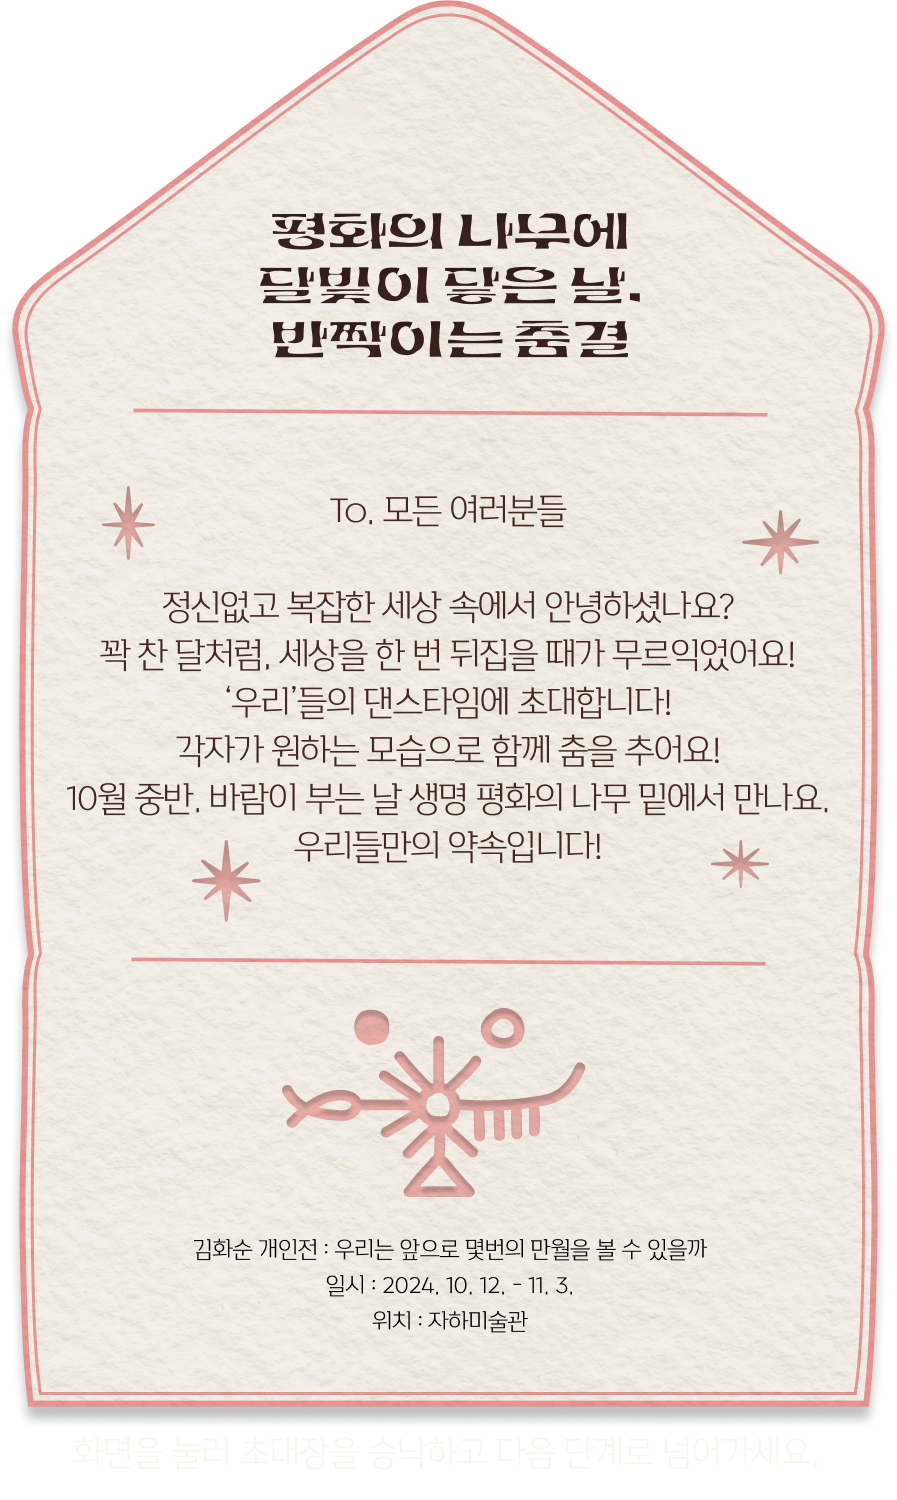
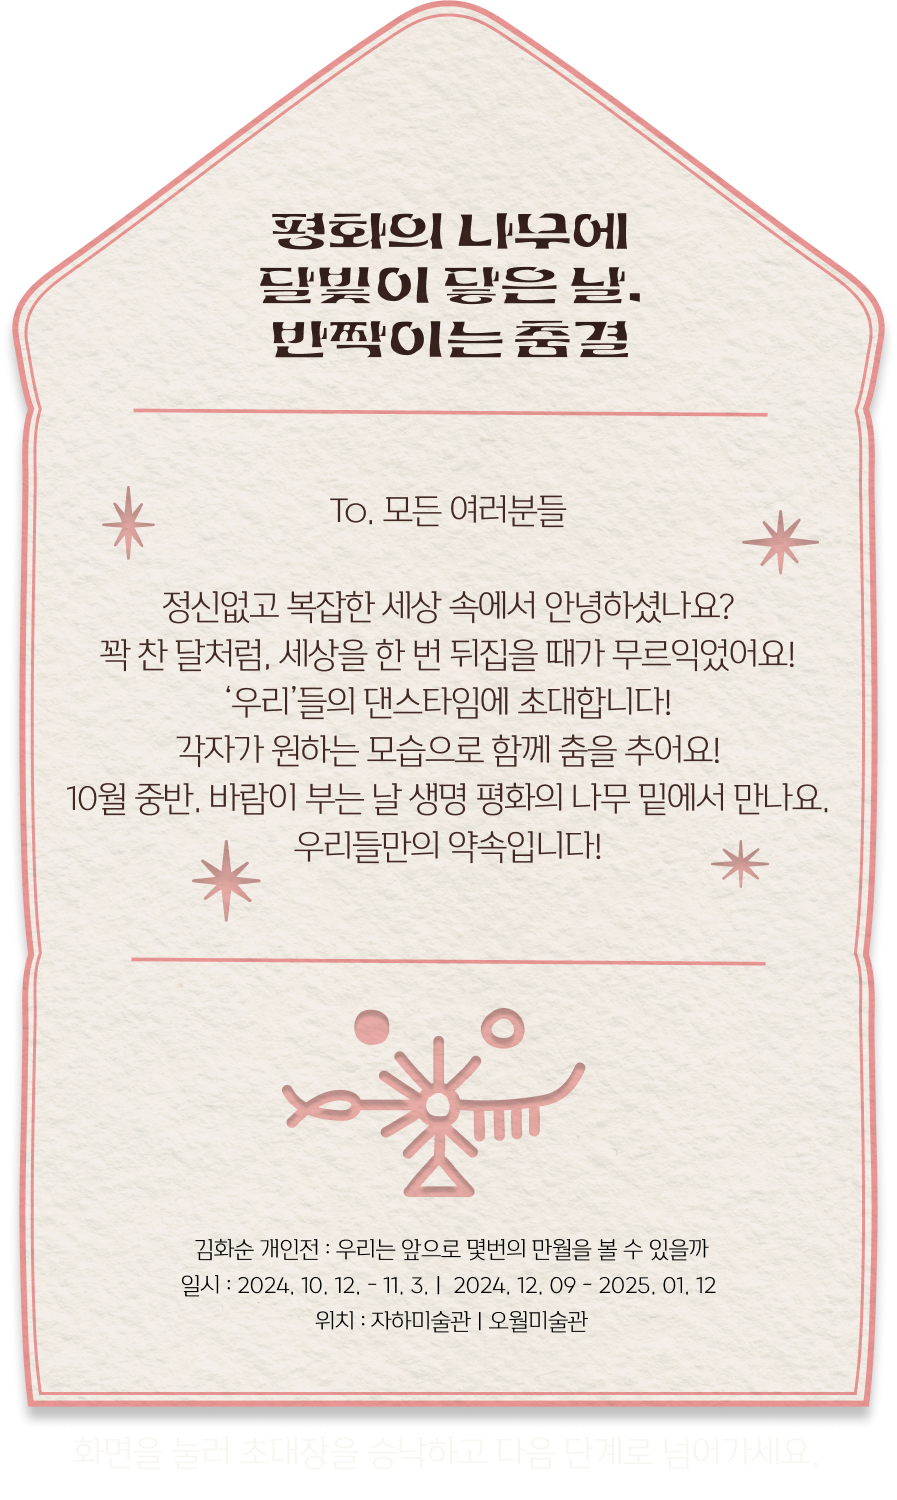
archive

Changed region(s): [[0.2185, 0.828, 0.8116, 0.8893]]

diff --git a/staticPage/frontend/src/components/CreateCharacter.js b/staticPage/frontend/src/components/CreateCharacter.js
@@ -48,6 +48,9 @@ const CreateCharacter = ({isFixedSize}) => {
   const dracoLoaderRef = useRef(null);
   const loaderRef = useRef(null);
 
+  const [isAccessorySelected, setIsAccessorySelected] = useState(false);
+
+
   useEffect(() => {
     if (!dracoLoaderRef.current) {
       const dracoLoader = new DRACOLoader();
@@ -178,6 +181,9 @@ const handleAssetSelection = async (category, index, modelPath) => {
     // 새로운 소품 로딩 및 상태 업데이트
     loadModel(modelPath, category+group);
     setSelectedAccessories((prev) => ({ ...prev, [group]: index }));
+
+    setIsAccessorySelected(true); // 액세서리 선택됨
+
     return;
   }
 
@@ -1235,7 +1241,7 @@ const clearExpressionCanvas = useCallback(() => {
     }}>
       <div className="overlay-content">
         <img
-          src="../static/stockimages/maker_invitation.webp"
+          src="../static/stockimages/maker_invitation.png"
           alt="Invitation"
         />
       </div>
@@ -1622,13 +1628,14 @@ const clearExpressionCanvas = useCallback(() => {
               >
                 {/* 배경 이미지 */}
                 <img
-                  src="static/stockimages/facebackground.webp"
+                  src="static/stockimages/facebackground.png"
                   alt="Face Background"
                   style={{
                     position: "absolute",
                     left: "0",
+                    top: "10%",
                     width: "100%", // 고정된 900px 너비
-                    height: "100%", // 고정된 900px 높이
+                    height: "80%", // 고정된 900px 높이
                     objectFit: "contain", // 이미지 크기를 커버로 설정
                     pointerEvents: "none", // 이미지에 클릭이 되지 않게 설정
                     zIndex: 4,
@@ -1684,6 +1691,9 @@ const clearExpressionCanvas = useCallback(() => {
     }
 
     return (
+
+
+      
       <div
         key={index}
         id="makemescrollhere"
@@ -1692,6 +1702,7 @@ const clearExpressionCanvas = useCallback(() => {
           WebkitOverflowScrolling: 'touch !important',
         }}
       >
+
         <div
           className="pictures"
           style={{
@@ -1826,6 +1837,24 @@ const clearExpressionCanvas = useCallback(() => {
             ))}
           </div>
         )}
+
+{activeCategory && activeCategory.name === "ACCESSORY" && (
+  <div style={{
+    width: "100%",
+    display: "flex",
+    flexDirection: "column",
+    alignItems:"center",
+    padding: "10px"
+
+  }}>
+    <img 
+      src="/static/stockimages/accessoryinfo.png" 
+      alt="Accessory Info" 
+      style={{ width: "50%", maxWidth: "400px" }} 
+    />
+  </div>
+)}
+
       </div>
     </div>
   </div>

diff --git a/staticPage/frontend/src/components/Home.js b/staticPage/frontend/src/components/Home.js
@@ -414,7 +414,7 @@ function Home( {isFixedSize}) {
       <img src="/static/icons/hamburger.webp" alt="menu" id="menu-button" style={{width: '30px'}}/>
               
     </div>
-        <img src="/static/stockimages/tutorial.webp" alt="tutorial" style={{
+        <img src="/static/stockimages/tutorial.png" alt="tutorial" style={{
           position: 'absolute',
           top: '55px',
           width: '90%', 
@@ -531,12 +531,16 @@ function Home( {isFixedSize}) {
       )}
 
       {/* Footer */}
+
       <footer style={{letterSpacing:'-0.025em'}}>
-        <div>2024. 10. 12 - 11. 3.</div>
-        <div className="footerBorder">|</div>
-        <a href="https://www.instagram.com/kkot.pida.gallery/">김화순 개인전</a>
-        <div className="footerBorder">|</div>
+        <div id="footer1">이 프로젝트는 2024년&nbsp;<a href="https://www.instagram.com/kkot.pida.gallery/">김화순 개인전</a>&nbsp;과 함께 진행되었습니다. </div>
+        <div id="footer2">
+        <div>2024. 10. 12 - 11. 3&nbsp;</div>
         <a href="https://www.zahamuseum.org">자하미술관</a>
+        <div >&nbsp; | &nbsp;</div>
+        <div >2024. 12. 09 - 2025. 01. 12 &nbsp;</div>
+        <a href="https://place.map.kakao.com/1666463188">오월미술관</a>
+        </div>
       </footer>
     </div>
   );

diff --git a/staticPage/frontend/src/components/PostcardView.js b/staticPage/frontend/src/components/PostcardView.js
@@ -615,8 +615,8 @@ const [ isReadyToRecord, setIsReadyToRecord ] = useState(true);
           {postcard?.name ? `'${postcard.name}'의 춤사위` : '춤사위'}
         </div>
 
-        <div onClick={handleMenuClick} style={{ cursor: 'pointer', display: 'flex', justifyContent: 'center', alignItems: 'center', paddingRight: '20px' }}>
-          <img src="/static/icons/hamburger.webp" alt="menu" id="menu-button" style={{width:'30px', height:'30px'}}/>
+        <div style={{ cursor: 'pointer', display: 'flex', justifyContent: 'center', alignItems: 'center', paddingRight: '20px' }}>
+          <img src="/static/icons/hamburger.webp" alt="menu" id="menu-button" style={{width:'30px', height:'30px', opacity:'0'}}/>
         </div>
       </header>
 

diff --git a/staticPage/frontend/src/components/Home.css b/staticPage/frontend/src/components/Home.css
@@ -148,8 +148,8 @@ body {
 footer {
   height: 50px;
   display: flex;
-  flex-direction: row;
-  justify-content: space-evenly;
+  flex-direction: column;
+  justify-content: center;
   align-items: center;
   background-color: #f8f6f1;
   z-index: 1999;
@@ -157,15 +157,28 @@ footer {
   position: fixed;
   bottom: 0;
   width: 100%;
+  /* padding-top: 5px; */
+  /* padding-bottom: 5px; */
 }
 
 footer * {
-  height: 100%;
+  height: 50%;
   display: flex;
   align-items: center;
   justify-content: center;
   text-align: center;
   z-index: 2000;
+}
+
+#footer1 {
+  font-size: 12px;
+  font-weight: bold;
+  margin-bottom: -10px;
+}
+
+#footer2 {
+  font-size: 8px;
+  font-weight: light;
 }
 
 .footerBorder {
